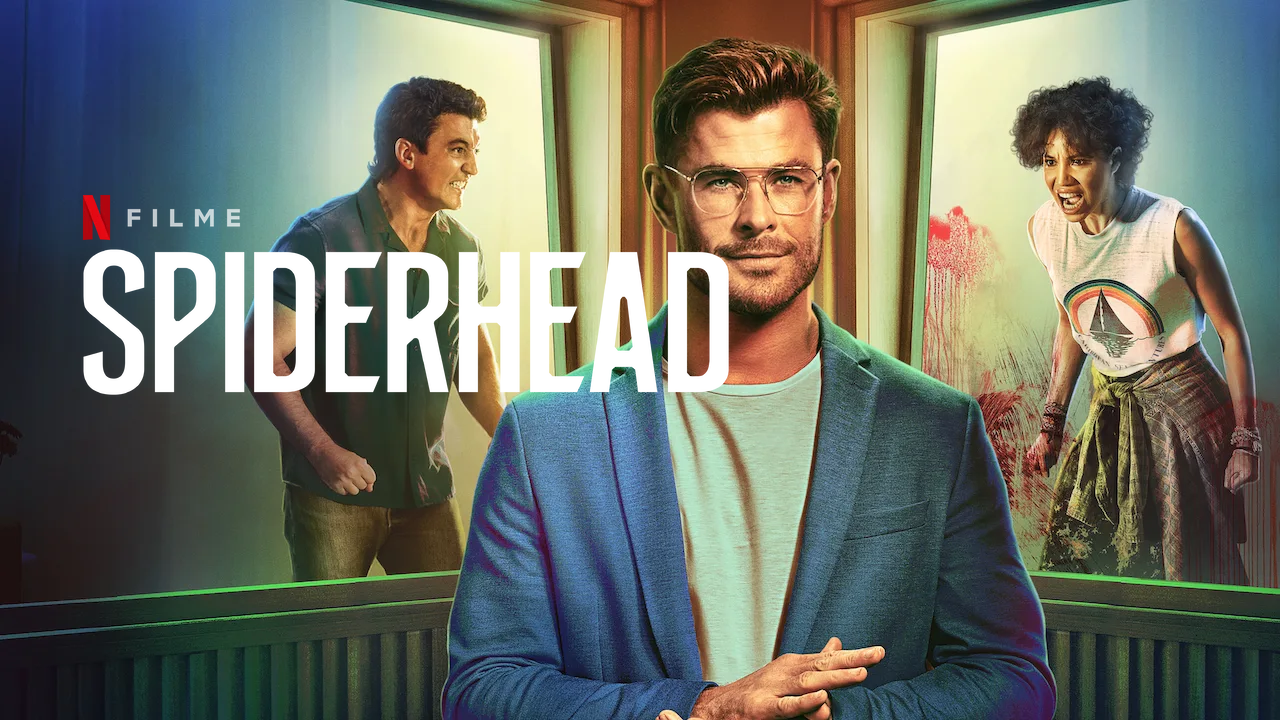
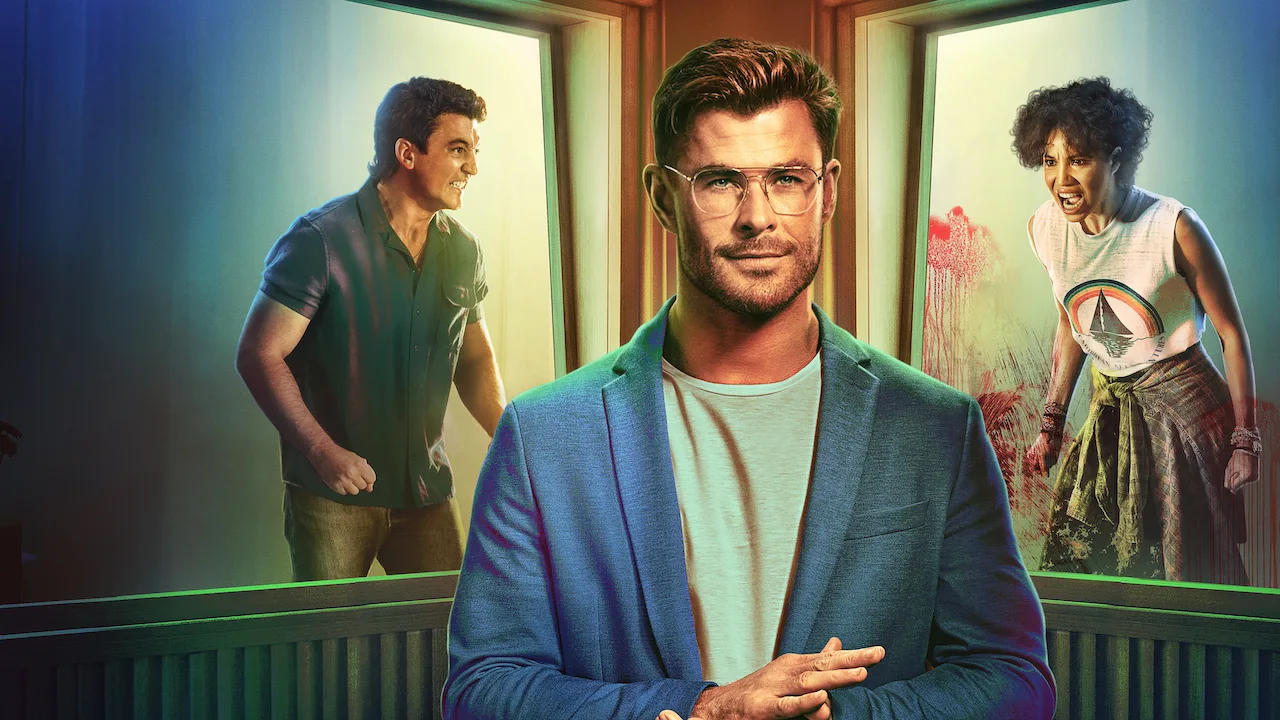
preparando css

Changed region(s): [[0.0625, 0.275, 0.5938, 0.55]]

diff --git a/index.html b/index.html
@@ -17,57 +17,69 @@
   <body>
     <div class="container">
       <div class="hero">
-        <div class="menu">
+        <div class="header">
           <div class="logo">
             <img src="./src/images/logo.jpeg" alt="Logo Netflix" />
           </div>
-          <div class="menu-left">
-            <ul>
-              <li>Início</li>
-              <li>Séries</li>
-              <li>Filmes</li>
-              <li>Bombando</li>
-              <li>Minha lista</li>
-            </ul>
-          </div>
-          <div class="menu-right">
-            <ul>
-              <li><i class="fas fa-search"></i></li>
-              <li><i class="fas fa-bell"></i></li>
-              <li class="user">
-                <img src="./src/images/user.png" alt="Avatar usuário" />
-                <i class="fas fa-sort-down"></i>
-              </li>
-            </ul>
+
+          <div class="menu">
+            <div class="menu-left">
+              <ul>
+                <li>Início</li>
+                <li>Séries</li>
+                <li>Filmes</li>
+                <li>Bombando</li>
+                <li>Minha lista</li>
+              </ul>
+            </div>
+            <div class="menu-right">
+              <ul>
+                <li><i class="fas fa-search"></i></li>
+                <li><i class="fas fa-bell"></i></li>
+                <li class="user">
+                  <img src="src/images/user.png" alt="Avatar usuário" />
+                  <i class="fas fa-sort-down"></i>
+                </li>
+              </ul>
+            </div>
           </div>
         </div>
 
-        <main>
-          <!-- Banner -->
-          <div class="banner">
-            <img src="./src/images/banner.png" alt="Banner filme Spiderhead" />
-            <span class="subtitle">bla bla bla bla bla</span>
+        <!-- Banner -->
+        <div class="banner">
+          <img
+            class="poster"
+            src="./src/images/poster.png"
+            alt="Banner filme
+            Spiderhead"
+          />
+          <span class="subtitle">bla bla bla bla bla</span>
 
-            <div class="buttons">
-              <button class="btn_play">
-                <i class="fas fa-play"></i>Assistir
-              </button>
-              <button class="btn_info">
-                <i class="fas fa-info"></i>Mais informações
-              </button>
-            </div>
+          <div class="buttons">
+            <button type="submit" class="btn_play">
+              <i class="fas fa-play"></i>
+
+              Assistir
+            </button>
+            <button class="btn_info">
+              <i class="fas fa-info"></i>Mais informações
+            </button>
           </div>
-          <!-- Fim do Banner -->
+        </div>
+        <!-- Fim do Banner -->
 
-          <!-- Categorias -->
-          <div class="category">
-            <span>Minha lista</span>
+        <!-- Categorias -->
+        <div class="category">
+          <!-- Carousel Minha lista -->
+          <span>Minha lista</span>
+          <div class="slider">
             <div class="carousel">
               <img
                 src="./src/images/minha _lista/poster_01.jpeg"
                 alt="BoJack Horseman"
               />
             </div>
+
             <div class="carousel">
               <img
                 src="./src/images/minha _lista/poster_02.jpeg"
@@ -93,9 +105,14 @@
               />
             </div>
           </div>
+        </div>
 
-          <div class="category">
-            <span>Em alta</span>
+        <!-- Fim Carousel Minha lista -->
+
+        <div class="category">
+          <!-- Carousel Em alta -->
+          <span>Em alta</span>
+          <div class="slider">
             <div class="carousel">
               <img
                 src="./src/images/top10/poster_01.jpeg"
@@ -127,9 +144,11 @@
               />
             </div>
           </div>
-          <!-- Fim de Categorias -->
-        </main>
+        </div>
+        <!-- Fim Carousel Em alta -->
+        <!-- Fim de Categorias -->
 
+        <!-- Footer -->
         <footer>
           <div class="social-links">
             <i class="fa-brands fa-facebook-f"></i>
@@ -139,17 +158,36 @@
           </div>
 
           <div class="link-content">
-            <div class="info">
+            <div class="link-content__info">
               <ul>
                 <li>Idioma e legendas</li>
                 <li>Imprensa</li>
                 <li>Privacidade</li>
                 <li>Entre em contato</li>
-                <li>Entre em contato</li>
+              </ul>
+              <ul>
+                <li>Audiodescrição</li>
+                <li>Relações com investidores</li>
+                <li>Avisos legais</li>
+              </ul>
+              <ul>
+                <li>Centro de ajuda</li>
+                <li>Carreiras</li>
+                <li>Preferência de cookies</li>
+              </ul>
+              <ul>
+                <li>Cartão pré-pago</li>
+                <li>Termos de uso</li>
+                <li>informações corporativas</li>
               </ul>
             </div>
-          </div>
-        </footer>
+            <div class="link-content__service">
+              <button class="link-content__service-code">Código do serviço</button>
+            </div>
+            <div class="link-content__copyright">
+              <span>© 1997-2022 Netflix, Inc.&nbsp;&nbsp;&lrm;</span>
+            </div>
+        </footer>  <!-- Fim do Footer -->
       </div>
     </div>
   </body>

diff --git a/src/style.css b/src/style.css
@@ -13,10 +13,12 @@ body {
   height: 100vh;
   background-image: linear-gradient(
       to bottom,
-      rgba(0, 0, 0, 0.8) 0% rgba(0, 0, 0, 0.2) 20% rgba(0, 0, 0, 0.2) 80%
-        rgba(0, 0, 0, 1) 100%
+      rgba(0, 0, 0, 0.9) 5%,
+      rgba(0, 0, 0, 0.2) 20%,
+      rgba(0, 0, 0, 0.2) 80%,
+      rgba(0, 0, 0, 0.8) 100%
     ),
-    url(./images/banner.webp);
+    url(./images/banner.png);
   background-size: cover;
   padding: 0.26rem 0.75rem 0 0.75rem;
 }
@@ -34,7 +36,7 @@ body {
 }
 
 .logo img {
-  width: 17%;
+  width: 5.8rem;
 }
 
 .menu {
@@ -43,5 +45,186 @@ body {
   justify-content: space-between;
   width: 100%;
   align-items: center;
+}
+
+.menu-left,
+.menu-right {
+  display: flex;
+  color: white;
+  font-size: 0.87rem;
+}
+
+.menu ul {
+  display: flex;
+  list-style: none;
+  align-items: center;
+}
+
+.menu ul li {
+  padding-right: 0.9rem;
+}
+
+.menu .user img {
+  width: 2rem;
+  margin-right: 0.5rem;
+}
+
+.menu .user {
+  display: flex;
+  align-items: center;
+}
+
+.menu i {
+  font-size: 20px;
+}
+
+.menu-right ul li {
+  padding-right: 1rem;
+}
+
+.banner {
+  height: 80%;
+  display: flex;
+  flex-direction: column;
+  justify-content: center;
+  width: 50%;
+}
+
+.banner .poster {
+  width: 450px;
+}
+
+.banner .subtitle {
+  font-size: 1.25rem;
+  color: white;
+  /* line-height: 1.25; */
+  padding-top: 0.5rem;
+}
+
+.buttons {
+  margin-top: 2rem;
+}
+
+.buttons .btn_play {
+  padding: 0.6rem 2rem;
+  margin-right: 0.75rem;
+  font-weight: 600;
+  border-radius: 0.125rem;
+  font-family: inherit;
+  font-size: 100%;
+  border: 0;
+  cursor: pointer;
+  border: solid transparent;
+}
+
+.buttons .btn_info {
+  color: white;
+  padding: 0.6rem 2rem;
+  margin-right: 0.75rem;
+  font-weight: 600;
+  border-radius: 0.125rem;
+  background-color: rgba(109, 109, 110, 0.7);
+  font-family: inherit;
+  font-size: 100%;
+  border: 0;
+}
+.btn_info:hover {
+  border: solid white;
+}
+.buttons i {
+  margin-right: 0.5rem;
+}
+
+.category {
+  height: 200px;
+}
+.category span {
+  color: #e5e5e5e5;
+  font-size: 18px;
+  line-height: 17px;
+  font-weight: 600;
+}
+
+.slider {
+  margin-top: 0.8rem;
+  display: flex;
+  overflow: hidden;
+  position: absolute;
+  left: 3.75rem;
+  right: 0;
+}
+
+.slider .carousel {
+  min-width: 19.3%;
+}
+
+.slider .carousel img {
+  max-width: 100%;
+  padding-right: 5px;
+}
+
+/* Footer */
+.social-links {
+  height: 25px;
+  width: 50%;
+}
+
+.social-links i {
+  font-size: 22px;
+  margin-right: 1.5rem;
+  cursor: pointer;
+  color: white;
+}
+
+.link-content {
+  max-width: 980px;
+  margin: 20px auto;
+  color: grey;
+}
+
+.link-content__info {
+  display: grid;
+  grid-template-columns: 1fr 1fr 1fr 1fr;
+  gap: 0.5em;
+}
+
+.link-content__info ul {
+  font-size: 13px;
+  display: flex;
+  flex-direction: column;
+  padding: initial;
+}
+
+.link-content__info ul li {
+  list-style: none;
+  margin-bottom: 16px;
+  cursor: pointer;
+}
+
+.link-content__info ul li:hover{
+  text-decoration: underline;
+}
+
+.link-content__service {
+  margin-bottom: 20px;
+  font-size: 13px;
+}
+
+.link-content__service-code {
+  background: 0 0;
+  color: grey;
+  border: solid 1px grey;
+  padding: 0.5rem;
+}
+
+.link-content__service-code:hover {
+  color: white;
+  border: solid 1px white;
+}
+
+.link-content__copyright {
+  font-size: 11px;
+  margin-bottom: 15px;
+  padding: 1rem 4px;
 }
 
